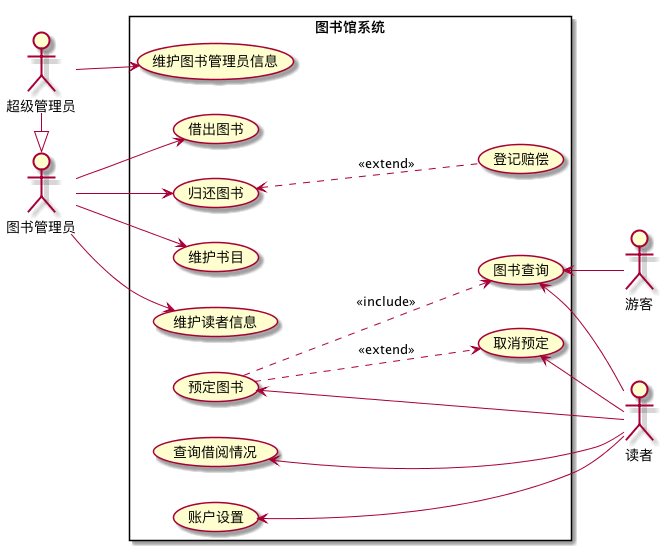
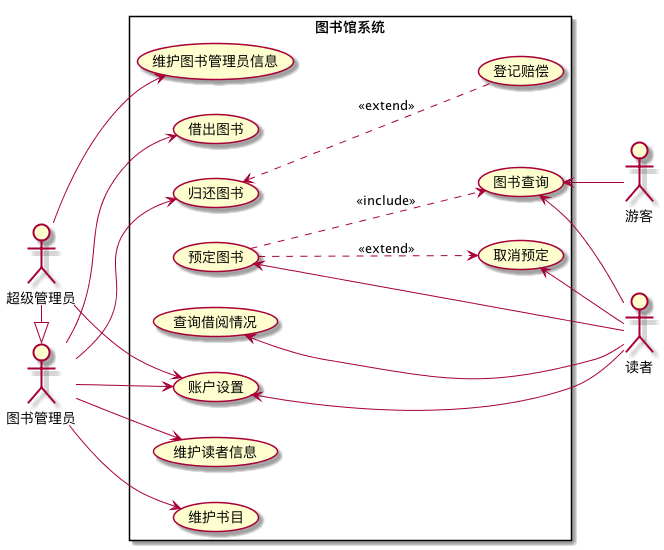
test2

diff --git a/test2/README.md b/test2/README.md
@@ -57,7 +57,7 @@ rectangle 图书馆系统 {
 |后置条件|页面成功显示书籍内容|
 |主事件流|
 |参与者动作|系统行为|
-|1.参与者查询所需书籍关键字<br><br>4.根据页面内容进行下一步操作|<br>2.系统根据关键字从数据库查询数据<br>3.将查询结果格式化输出到页面|
+|1.参与者查询所需书籍关键字<br><br><br>4.根据页面内容进行下一步操作|<br>2.系统根据关键字从数据库查询数据<br>3.将查询结果格式化输出到页面|
 |备选事件流|
 |1a.书籍不存在<br><ul>1.系统提示书籍不存在,用例结束</ul>2a.关键字非法<br><ul>2.系统提示关键字非法,返回事件流开头</ul>|
 |业务规则|
@@ -132,7 +132,7 @@ stop
 |后置条件|<ul><li>书籍库存-1;生成借书单</li></ul>|
 |主事件流|
 |参与者动作|系统行为|
-|1.输入账号<br>3.输入借出账号<br>8.查看结果|2.判断账号合法性<br>4.判断账号是否合法<br>5.判断图书库存<br>6.借出图书<br>7.修改库存<br>|
+|1.输入账号<br>3.输入借出账号<br>8.查看结果|<br>2.判断账号合法性<br>4.判断账号是否合法<br>5.判断图书库存<br>6.借出图书<br>7.修改库存<br>|
 |备选事件流|
 |1a.账号不合法<br><ul>1.系统提示账号错误，用例结束</ul>2a.库存不足<ul>2.系统提示库存不足，用例结束</ul>|
 |业务规则|
@@ -240,7 +240,7 @@ endif
 |后置条件|<ul><li>预定图书成功</li></ul>|
 |主事件流|
 |参与者动作|系统行为|
-|1.输入账号<br>4.预定成功<br>|2.判断账号合法性<br>3.系统确认该书目库存是否大于等于1|
+|1.输入账号<br><br><br>4.预定成功<br>|<br>2.判断账号合法性<br>3.系统确认该书目库存是否大于等于1|
 |备选事件流|
 |1a.账号不合法<br><ul>1.系统提示账号错误，用例结束</ul>2a.库存不足<ul>2.系统提示库存不足，用例结束</ul>|
 |业务规则|
@@ -282,7 +282,7 @@ stop
 |后置条件|<ul><li>取消预定图书成功</li></ul>|
 |主事件流|
 |参与者动作|系统行为|
-|1.参与者输入账号<br>3.取消预定操作<br>5.取消预订成功|2.判断账号合法性<br>4.系统修改库存|
+|1.参与者输入账号<br><br>3.取消预定操作<br><br>5.取消预订成功|<br>2.判断账号合法性<br><br>4.系统修改库存<br>|
 |备选事件流|
 |1a.账号不合法<br><ul>1.系统提示账号错误，用例结束</ul>|
 |业务规则|
@@ -319,7 +319,7 @@ end
 |后置条件|<ul><li>查询到借阅情况</li></ul>|
 |主事件流|
 |参与者动作|系统行为|
-|1.输入账号<br>3.进行查询<br>|2.判断账号合法性<br>4.返回查询信息|
+|1.输入账号<br><br>3.进行查询<br><br>|<br>2.判断账号合法性<br><br>4.返回查询信息|
 |备选事件流|
 |1a.账号不合法<br><ul>1.系统提示账号错误，用例结束</ul>|
 |业务规则|
@@ -354,7 +354,7 @@ end
 |后置条件|<ul><li>使读者进行对应的登记补偿，记录读者的违规行为</li></ul>|
 |主事件流|
 |参与者动作|系统行为|
-|1.判断读者的违规情况，查询相关规定进行登记赔偿|2.响应图书管理员操作,添加违规记录|
+|1.判断读者的违规情况，查询相关规定进行登记赔偿|<br>2.响应图书管理员操作,添加违规记录|
 |备选事件流|
 |1a.账号不合法<br><ul>1.系统提示账号错误，用例结束</ul>|
 |业务规则|

diff --git a/test2/usecase1.md b/test2/usecase1.md
@@ -16,6 +16,8 @@ rectangle 图书馆系统 {
     (预定图书) .->(图书查询):<<include>>
     (查询借阅情况) <--读者
     (账户设置) <--读者
+    (账户设置) <-- 图书管理员
+    (账户设置) <-- 超级管理员
     (预定图书) <--读者
     (取消预定) <--读者
     (图书查询) <--游客
